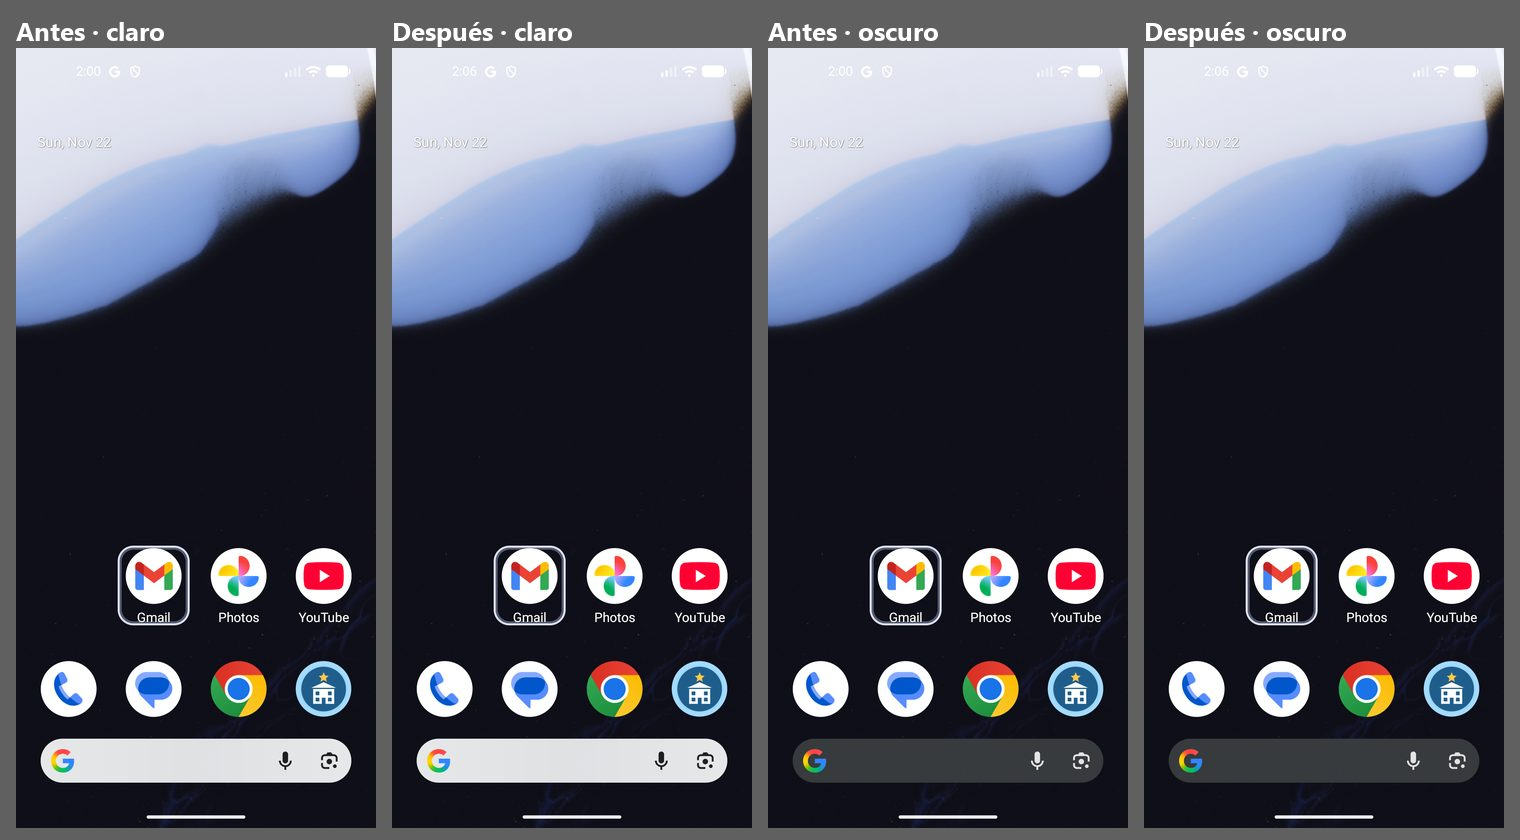
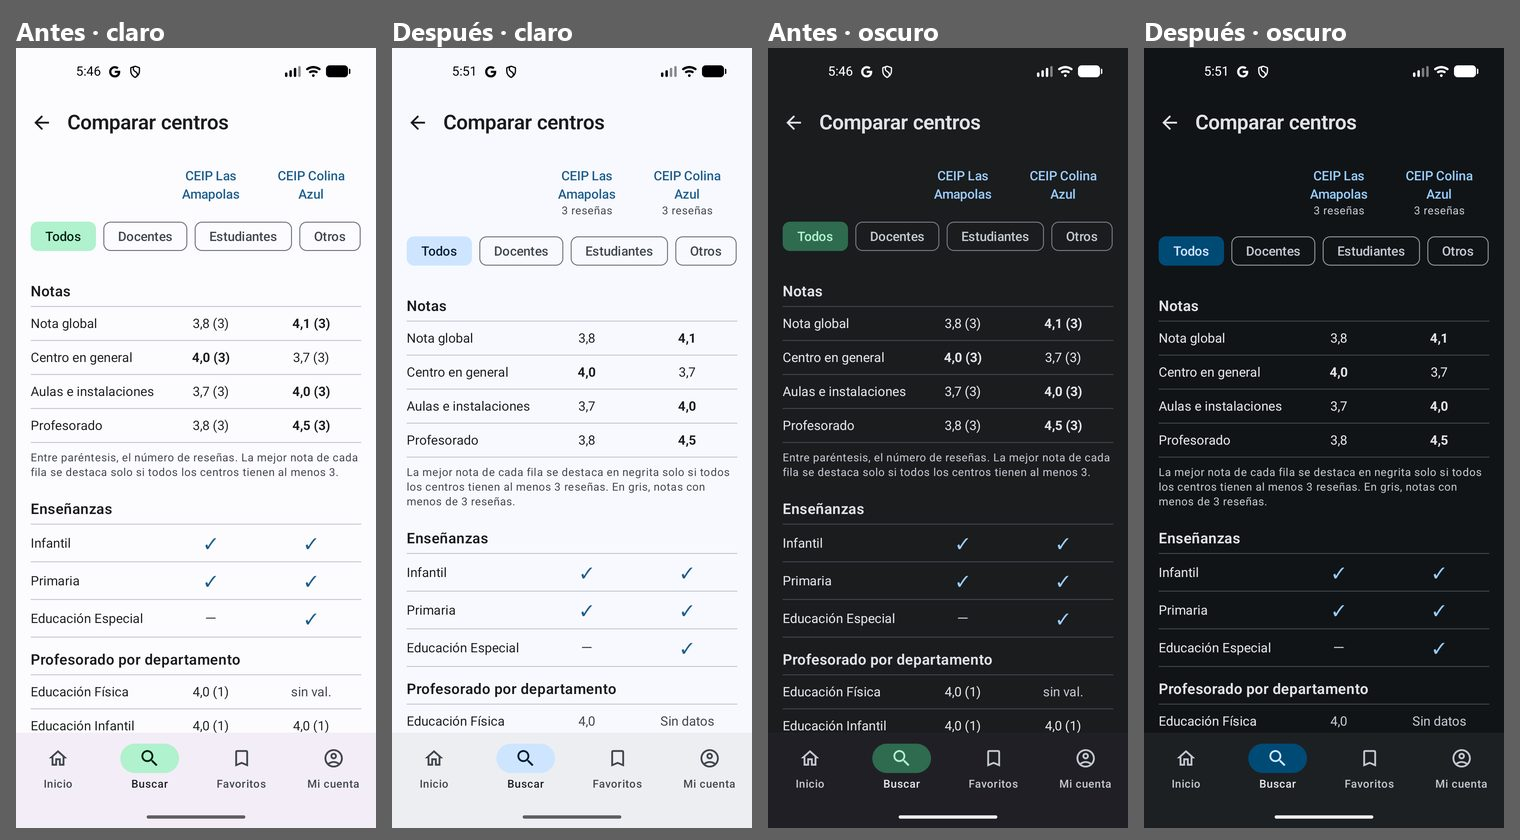
1.0.8: departamentos con pocas reseñas en gris con leyenda; capturas antes/después y propuesta de color de Docente

diff --git a/app/src/main/java/com/valoralo/ui/detail/DetailScreen.kt b/app/src/main/java/com/valoralo/ui/detail/DetailScreen.kt
@@ -65,6 +65,7 @@ import androidx.compose.runtime.derivedStateOf
 import androidx.compose.runtime.rememberCoroutineScope
 import androidx.compose.ui.text.style.TextOverflow
 import com.valoralo.domain.usecase.MIN_RESENAS_FIABLE
+import com.valoralo.domain.usecase.textoResenas
 import com.valoralo.ui.components.BotonComparar
 import com.valoralo.ui.components.EstadoVacio
 import kotlinx.coroutines.launch
@@ -483,15 +484,27 @@ private fun NotasPorDepartamento(departamentos: List<Pair<String, StatsDepartame
     Seccion("Profesorado por departamento") {
         departamentos.forEach { (nombre, stats) ->
             val pocas = stats.n < MIN_RESENAS_FIABLE
-            BarraNota(nombre, stats.media, detalle = if (pocas) "(${stats.n} · pocas reseñas)" else "(${stats.n})", atenuada = pocas)
+            BarraNota(
+                nombre, stats.media, detalle = "(${stats.n})", atenuada = pocas,
+                descripcion = "$nombre: ${formatearNota(stats.media)} de 5, ${textoResenas(stats.n)}" + if (pocas) ", pocas reseñas" else "",
+            )
+        }
+        if (departamentos.any { it.second.n < MIN_RESENAS_FIABLE }) {
+            Text(
+                "En gris, departamentos con menos de $MIN_RESENAS_FIABLE reseñas: su nota aún es poco fiable.",
+                style = MaterialTheme.typography.bodySmall,
+                color = MaterialTheme.colorScheme.onSurfaceVariant,
+                modifier = Modifier.padding(top = 8.dp),
+            )
         }
     }
 }
 
 @Composable
-private fun BarraNota(etiqueta: String, nota: Double?, detalle: String? = null, atenuada: Boolean = false) {
+private fun BarraNota(etiqueta: String, nota: Double?, detalle: String? = null, atenuada: Boolean = false, descripcion: String? = null) {
     val colorTexto = if (atenuada) MaterialTheme.colorScheme.onSurfaceVariant else MaterialTheme.colorScheme.onSurface
-    Column(Modifier.fillMaxWidth().semantics(mergeDescendants = true) {}) {
+    val semantica = if (descripcion != null) Modifier.clearAndSetSemantics { contentDescription = descripcion } else Modifier.semantics(mergeDescendants = true) {}
+    Column(Modifier.fillMaxWidth().then(semantica)) {
         Row(verticalAlignment = Alignment.CenterVertically) {
             Text(etiqueta, style = MaterialTheme.typography.bodyMedium, color = colorTexto, modifier = Modifier.weight(1f))
             Text(formatearNota(nota), style = MaterialTheme.typography.bodyMedium, fontWeight = FontWeight.Bold, color = colorTexto)
